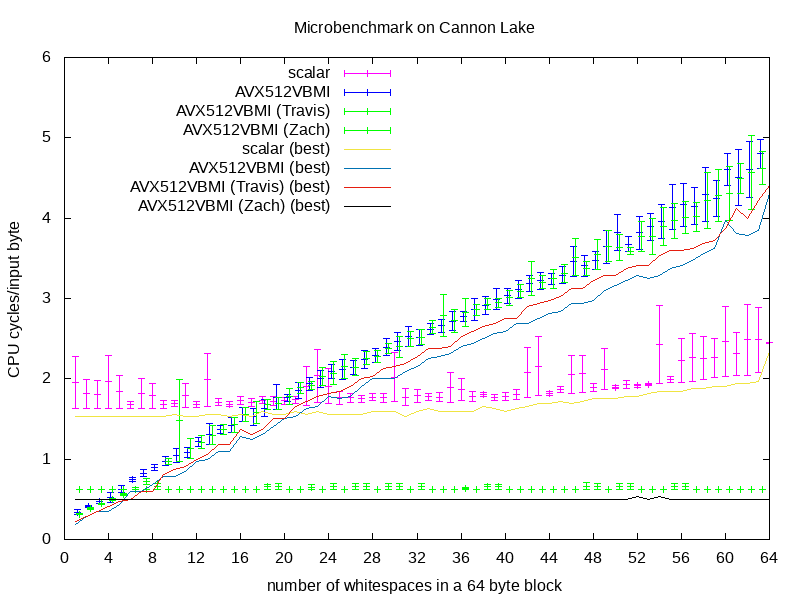
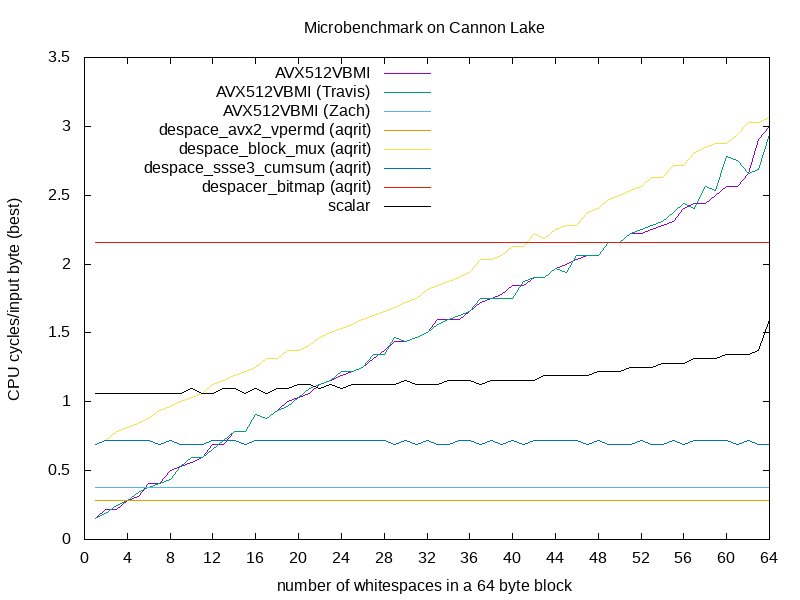
Update results

diff --git a/avx512-remove-spaces/README.rst b/avx512-remove-spaces/README.rst
@@ -4,27 +4,21 @@ Microbenchmarks
 .. image:: results.png
 
 
-Performance tests (only Zach's procedure)
+Performance tests
 --------------------------------------------------------------------------------
 
-::
-
-    tom-sawyer.txt
-    scalar           : ..........       1286 us
-    AVX512VBMI (Zach): ..........         58 us (22 x)
-
-    moby-dick.txt
-    scalar           : ..........       3744 us
-    AVX512VBMI (Zach): ..........        178 us (21 x)
-
-    sherlock.txt
-    scalar           : ..........       1847 us
-    AVX512VBMI (Zach): ..........         81 us (22 x)
-
-    census-income.data
-    scalar           : ..........     161613 us
-    AVX512VBMI (Zach): ..........      17079 us (9.4 x)
-
-    weather_sept_85.csv
-    scalar           : ..........     117209 us
-    AVX512VBMI (Zach): ..........      12326 us (9.5 x)
++---------------------+----------------------+----------------------+----------------------+----------------------+-------------------------+---------------------------+------------------------------+-----------------------------+
+|        file         |        scalar        |      AVX512VBMI      | AVX512VBMI (Travis)  |  AVX512VBMI (Zach)   | despacer_bitmap (aqrit) | despace_block_mux (aqrit) | despace_ssse3_cumsum (aqrit) | despace_avx2_vpermd (aqrit) |
++---------------------+-----------+----------+-----------+----------+-----------+----------+-----------+----------+-------------+-----------+--------------+------------+---------------+--------------+---------------+-------------+
+|                     | time [us] | speed-up | time [us] | speed-up | time [us] | speed-up | time [us] | speed-up |  time [us]  | speed-up  |  time [us]   |  speed-up  |   time [us]   |   speed-up   |   time [us]   |  speed-up   |
++=====================+===========+==========+===========+==========+===========+==========+===========+==========+=============+===========+==============+============+===============+==============+===============+=============+
+| tom-sawyer.txt      |       978 |          |       256 |     3.82 |       267 |     3.66 |        39 |    25.08 |         402 |      2.43 |          495 |       1.98 |           142 |         6.89 |            52 |       18.81 |
++---------------------+-----------+----------+-----------+----------+-----------+----------+-----------+----------+-------------+-----------+--------------+------------+---------------+--------------+---------------+-------------+
+| census-income.data  |    123950 |          |     45733 |     2.71 |     46847 |     2.65 |     13690 |     9.05 |       98053 |      1.26 |        83003 |       1.49 |         34737 |         3.57 |         14574 |        8.50 |
++---------------------+-----------+----------+-----------+----------+-----------+----------+-----------+----------+-------------+-----------+--------------+------------+---------------+--------------+---------------+-------------+
+| weather_sept_85.csv |     74037 |          |     44043 |     1.68 |     44637 |     1.66 |      9866 |     7.50 |       70963 |      1.04 |        66368 |       1.12 |         25113 |         2.95 |         10523 |        7.04 |
++---------------------+-----------+----------+-----------+----------+-----------+----------+-----------+----------+-------------+-----------+--------------+------------+---------------+--------------+---------------+-------------+
+| moby-dick.txt       |      2881 |          |       729 |     3.95 |       742 |     3.88 |       118 |    24.42 |        1202 |      2.40 |         1446 |       1.99 |           424 |         6.79 |           156 |       18.47 |
++---------------------+-----------+----------+-----------+----------+-----------+----------+-----------+----------+-------------+-----------+--------------+------------+---------------+--------------+---------------+-------------+
+| sherlock.txt        |      1402 |          |       368 |     3.81 |       376 |     3.73 |        55 |    25.49 |         559 |      2.51 |          722 |       1.94 |           198 |         7.08 |            72 |       19.47 |
++---------------------+-----------+----------+-----------+----------+-----------+----------+-----------+----------+-------------+-----------+--------------+------------+---------------+--------------+---------------+-------------+
